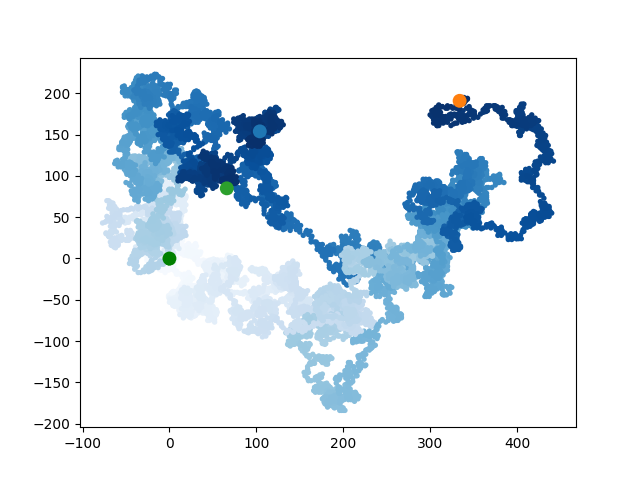
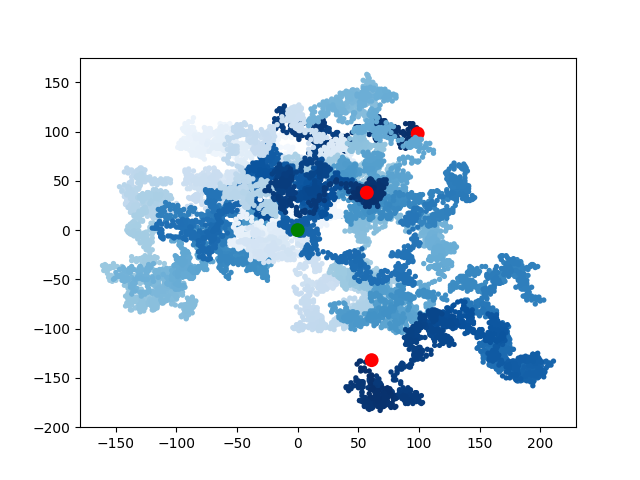
Plotando os pontos de início e de fim (pg 381-382).

diff --git a/capitulo_15-Gerando_dados/rw_visual.py b/capitulo_15-Gerando_dados/rw_visual.py
@@ -27,7 +27,7 @@ while True:
 
     # Enfatiza o primeiro e o último ponto:
     plt.scatter(0, 0, c='green', edgecolors='none', s=100)
-    plt.scatter(rw.x_values[-1], rw.y_values[-1], edgecolors='none', s=100)
+    plt.scatter(rw.x_values[-1], rw.y_values[-1], c='red', edgecolors='none', s=100)
 
     # Salva os gráficos automaautomatic:
     plt.savefig('random_walk_plot' + str(i) + '.png')
